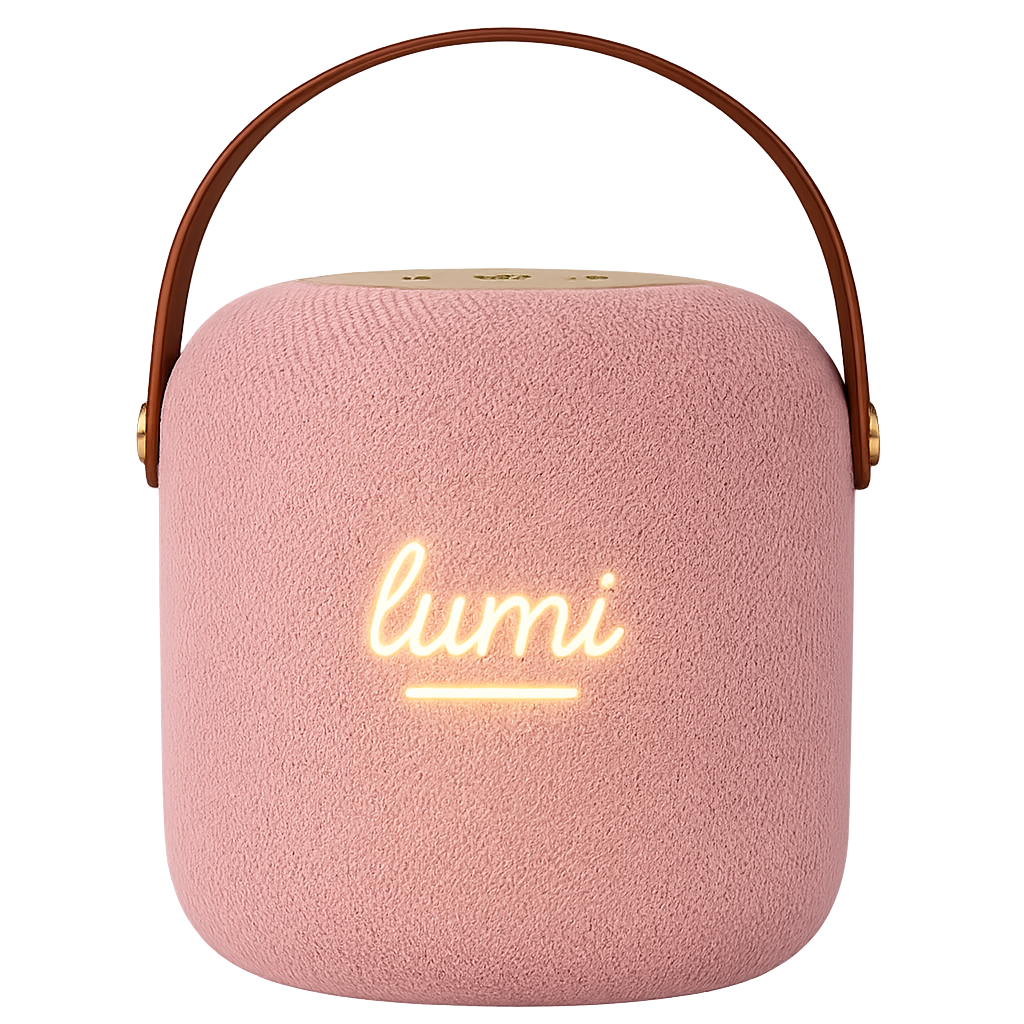
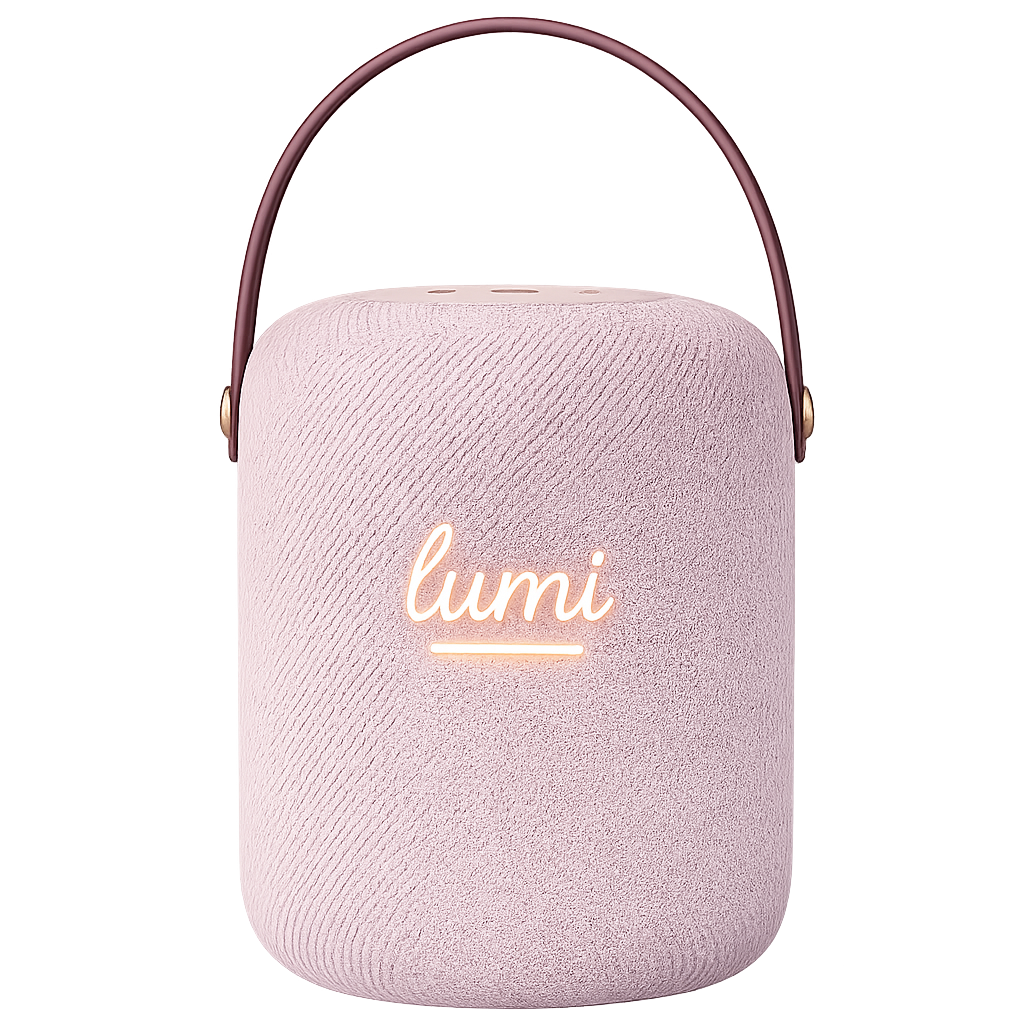
changed speaker pictures

diff --git a/css/landingpage.css b/css/landingpage.css
@@ -326,6 +326,7 @@ h1 {
   transition: 0.3s ease;
 }
 
+
 .color-card figcaption {
   font-size: 16px;
   color: #111;
@@ -355,14 +356,12 @@ h1 {
   background-color: #c6c5d4;
 }
 
-
 .color-card:hover {
   transform: translateY(-8px);
   border-color: #8b8579;
   background-color: #beb8a9;
 }
 
-/* Reviews */
 /* Reviews section */
 
 .reviews-section {

diff --git a/index.html b/index.html
@@ -152,7 +152,7 @@
     <article class="color-card">
       <figure>
         <div class="image-wrapper">
-          <img src="img/moonlight-white.png" alt="Lumina One i farven Moonlight white">
+         <img class="white-speaker" src="img/moonlight-white.png" alt="Lumina One i farven Moonlight white">
         </div>
         <figcaption>Moonlight white</figcaption>
       </figure>